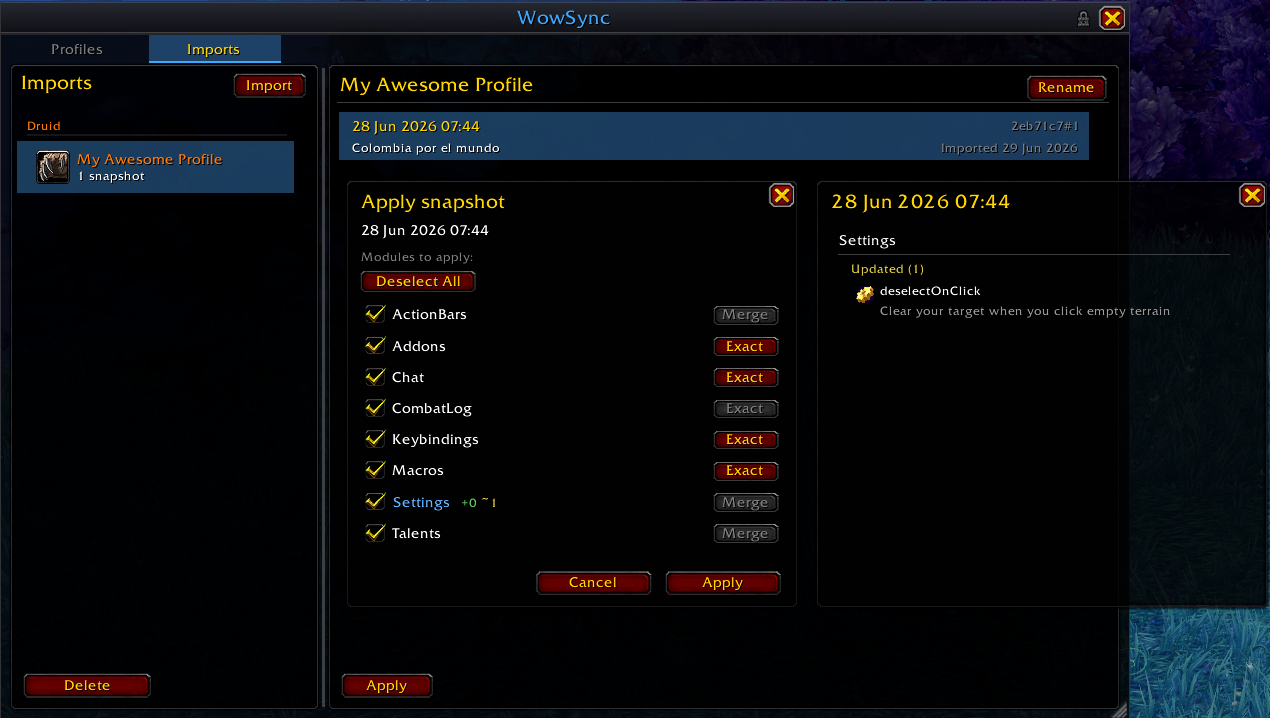
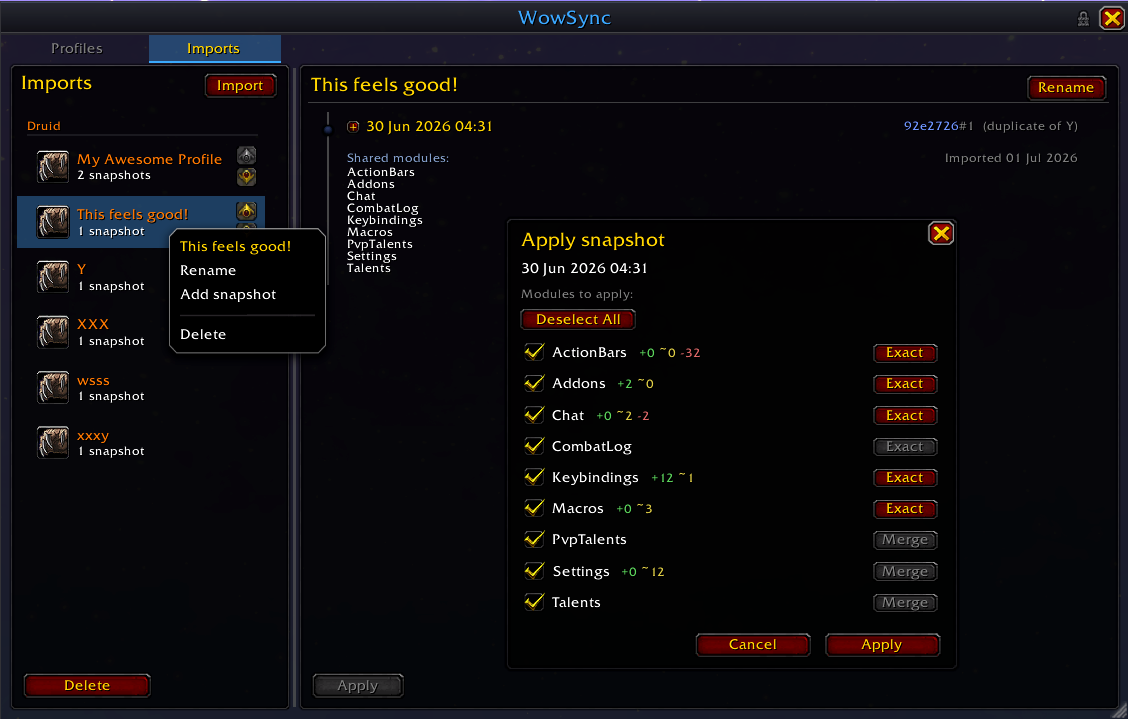
docs(readme): refresh import docs and screenshots
Expand the Sharing: Export & Import section to match current behavior.
Document import containers and class-group ordering with current-class
first, plus manual within-class reordering and snapshot pinning.
Update README screenshots so UI examples reflect the latest Imports,
Profiles, and MainFrame visuals.

diff --git a/README.md b/README.md
@@ -56,7 +56,11 @@ Once it is open:
 
 Snapshots are not stuck on your account. **Export** turns Current or any snapshot into a portable text string you can send to anyone; **Import** turns a pasted string back into a snapshot ready to apply. Shared strings are anonymised — only the class, capture time, and note travel with the setup, never your character or realm name.
 
-Imports live in their own list, separate from your characters, and are locked to the class they were captured on, so you cannot apply a Warrior's bars onto a Mage. Apply an import exactly like any snapshot, picking modules and Merge or Exact per module. Open either flow with `/ws export` or `/ws import`.
+Imports live in their own list, separate from your characters, and are locked to the class they were captured on, so you cannot apply a Warrior's bars onto a Mage. Each import is a named **container** that keeps its own timeline of imported snapshots, so you can gather several versions of a setup in one place. Right-click a container to **Rename** it, **Add snapshot** (paste another string into it), or **Delete** it.
+
+The import list is grouped by class, with your logged-in character's class shown first so the setups you can actually use sit right at the top. When a class holds more than one container, hover or select a row to reveal up/down arrows on its right edge; use them to reorder the containers within that class, and the order is remembered between sessions.
+
+A container's snapshots read newest first, just like a character's timeline, and can be **pinned** — right-click a snapshot to pin or unpin it. Pinned snapshots float to the top of the timeline and are marked in orange. Apply an import exactly like any snapshot, picking modules and Merge or Exact per module. Open either flow with `/ws export` or `/ws import`.
 
 ## Moving, Resizing & Locking
 
